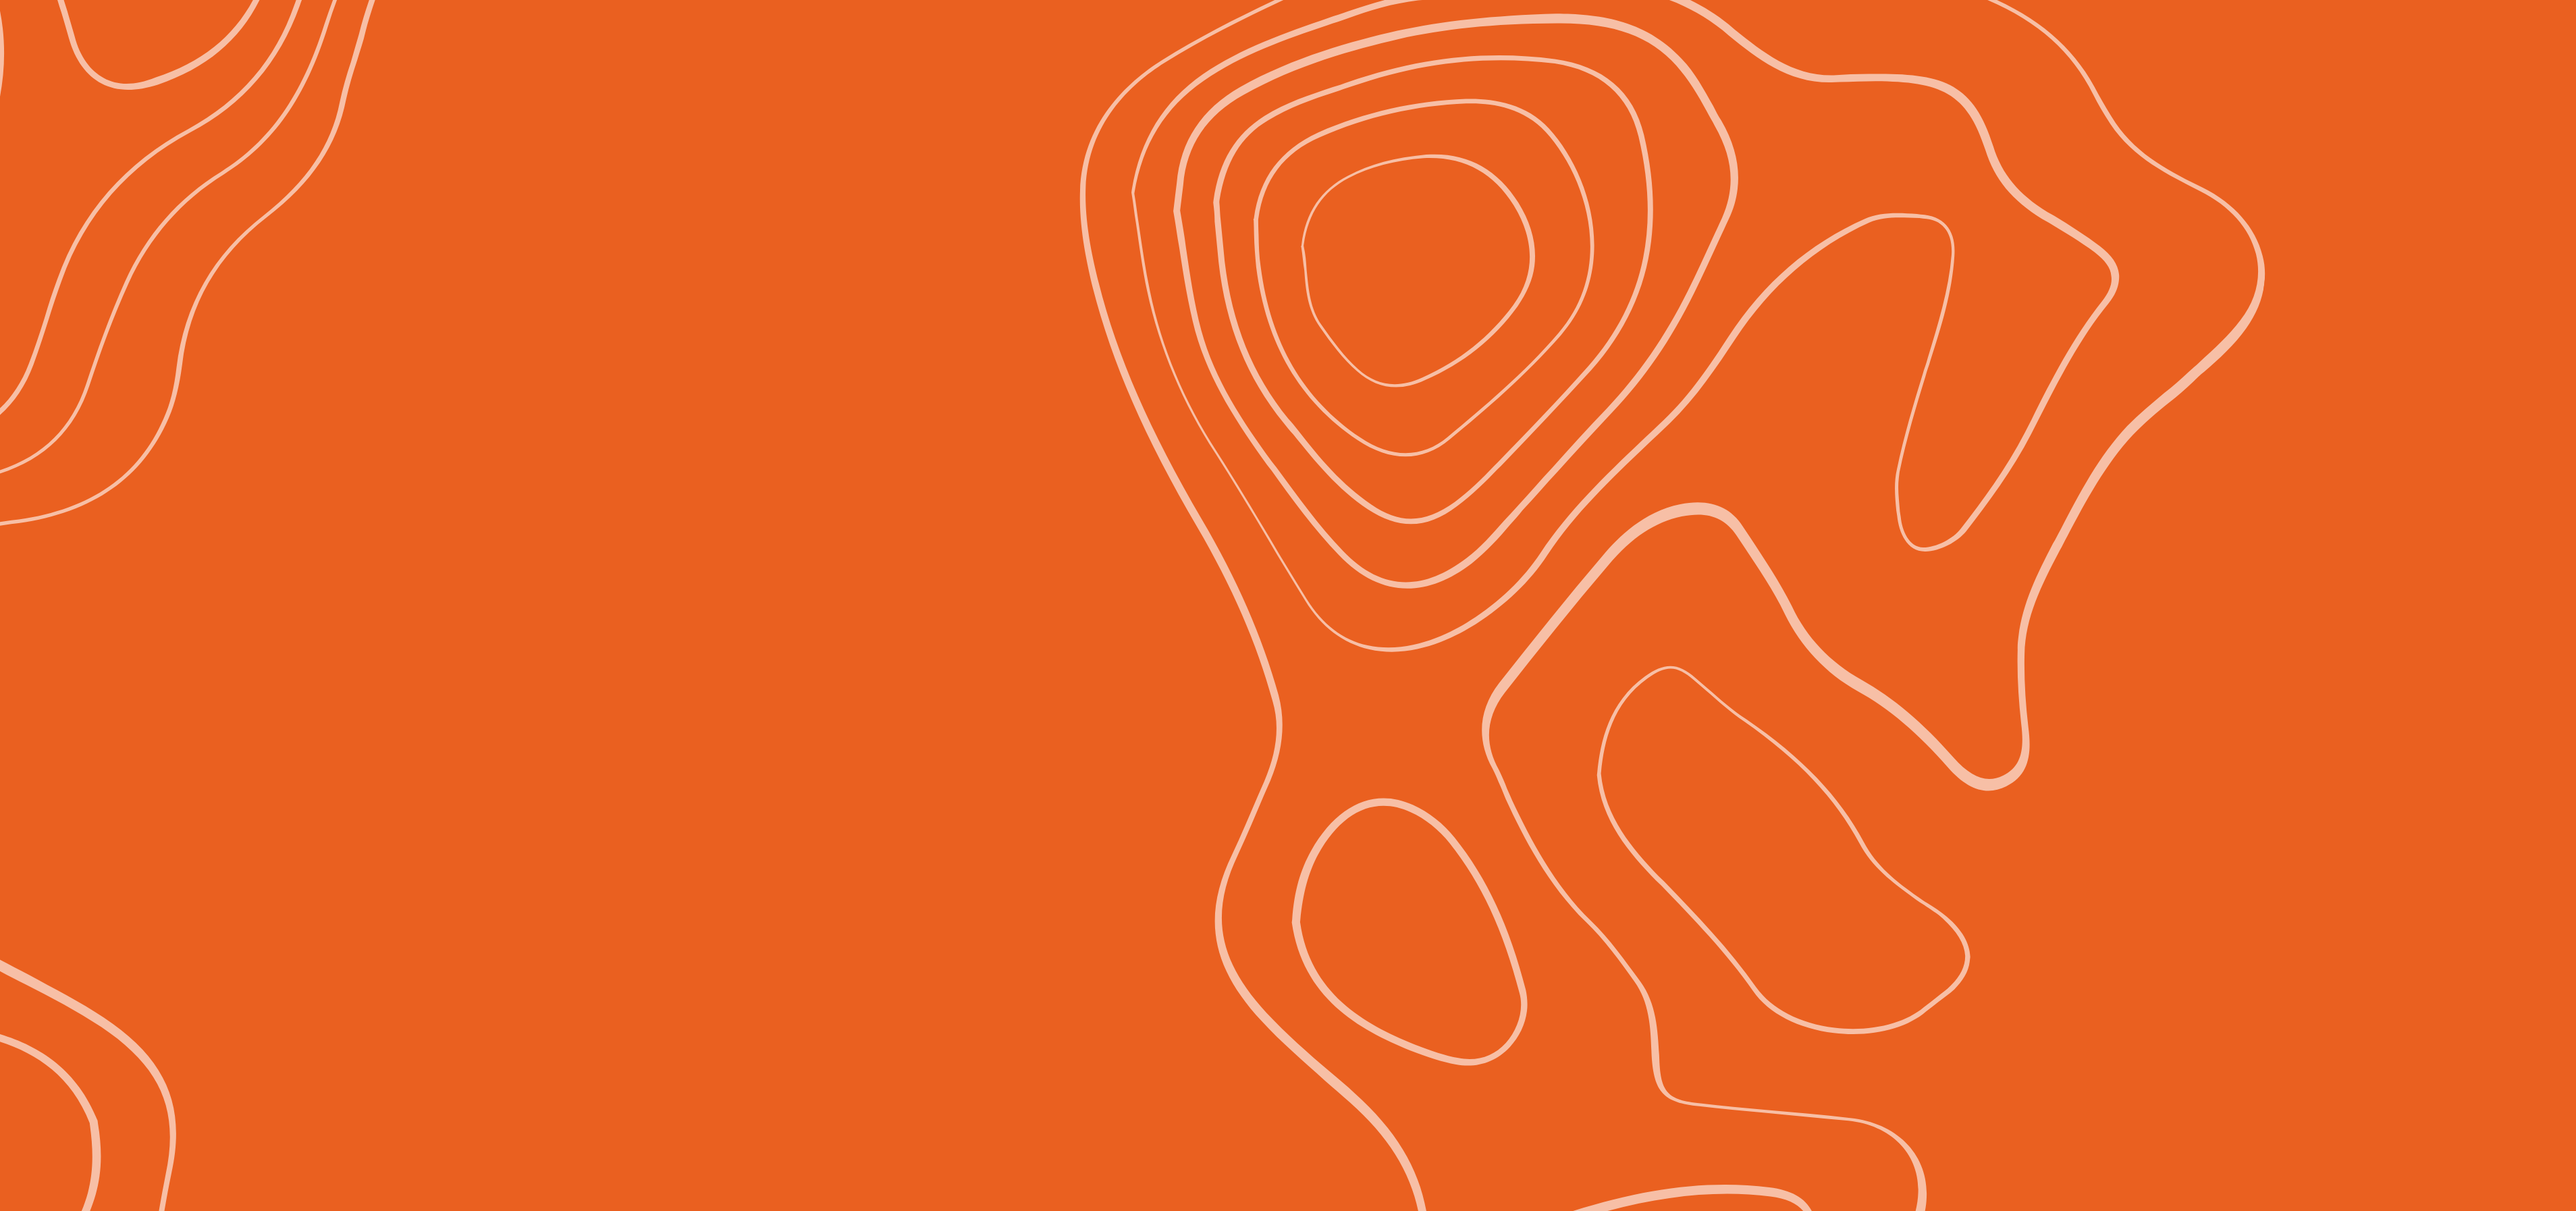
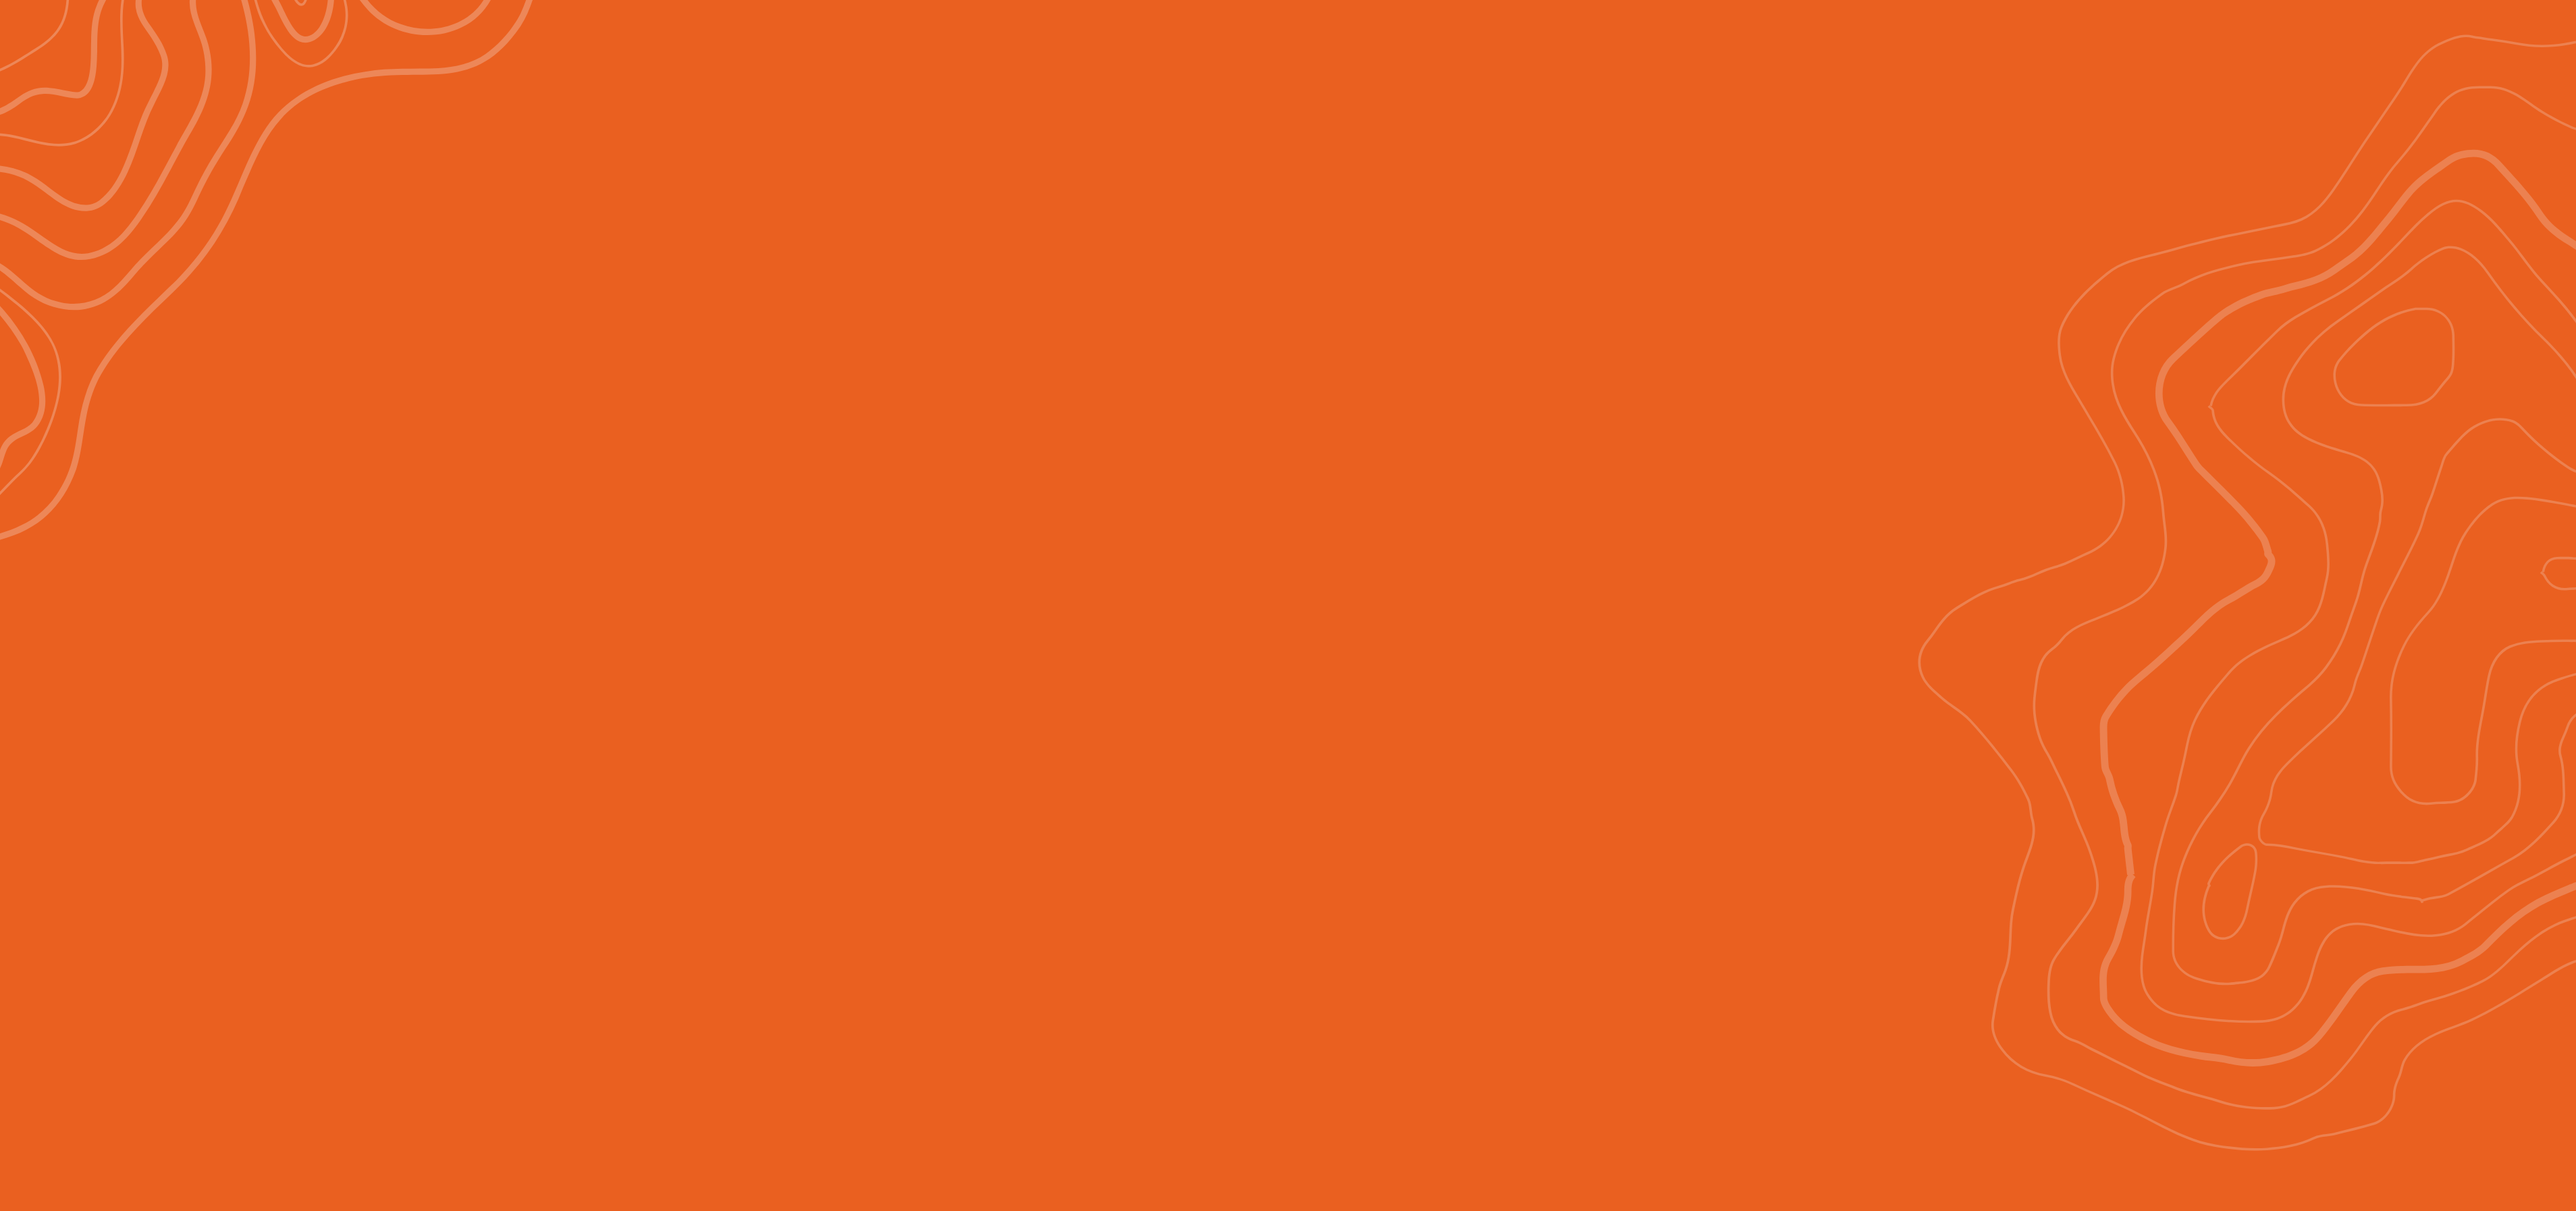
Ajustes de la landing de user

diff --git a/src/pages/landing/UserPage.jsx b/src/pages/landing/UserPage.jsx
@@ -37,46 +37,42 @@ const UserPage = () => {
   ];
 
   return (
-    <div className="padding-container w-full flex flex-col gap-24">
+    <div className="padding-container-2 w-full flex flex-col gap-24">
       {/* Section 1 */}
-      <section className="mt-24 flex-center w-full flex-col">
-        <div className="get-app-landing flex-row px-10 sm:px-28 md:px-12">
-          <div className="z-20 flex w-full flex-1 flex-col items-start justify-center gap-12">
-            <h2 className="text-center md:text-left bold-40 lg:bold-64 xl:max-w-2xl">
+      <section className="mt-10 md:mt-24 flex-center w-full flex-col">
+        <div className="get-app-landing flex-col md:flex-row items-center p-6 sm:px-28 md:px-12">
+          <div className="flex flex-col gap-12">
+            <h2 className="text-center font-bold text-4xl md:text-5xl xl:text-6xl md:text-left xl:max-w-xl text-pretty leading-tight">
               Compare Top Moving Services & Realtors{" "}
               <span className="text-white">All in One Place</span>
             </h2>
-            <div className="flex w-full flex-col gap-3 whitespace-nowrap xl:w-1/4">
-              <Button
-                className="bg-purple-500 text-color-1 h-12 border border-purple-500 rounded-2xl hover:bg-purple-100 hover:text-purple-500"
-                onClick={() => navigate("/")}
-              >
-                See more
-              </Button>
-            </div>
+            <Button
+              className="lg:w-[50%] bg-purple-500 text-color-1 border border-purple-500 rounded-2xl hover:bg-purple-100 hover:text-purple-500"
+              onClick={() => navigate("/")}
+            >
+              See more
+            </Button>
           </div>
-          <div className="hidden md:flex flex-1 items-center h-[400px] lg:h-[500px]">
-            <img
-              src="/assets/img/landing-user-1-1.png"
-              alt="Landing User"
-              className="object-cover size-full"
-            />
-          </div>
+          <img
+            src="/assets/img/landing-user-1-1.png"
+            className="hidden md:block md:w-1/2"
+            alt=""
+          />
         </div>
       </section>
       {/* Section 2 */}
-      <section className="relative max-container  w-full py-20 flex flex-center flex-col gap-10">
+      <section className="relative max-container w-full py-20 flex flex-center flex-col gap-10">
         <img
           src="/assets/img/border.png"
           alt=""
-          className="absolute w-16 md:w-28 left-0 top-0"
+          className="absolute w-16 lg:w-28 left-0 top-0"
         />
         <img
           src="/assets/img/border-2.png"
           alt=""
-          className="absolute w-28 md:w-52 right-0 bottom-0"
+          className="absolute w-28 lg:w-52 right-0 bottom-0"
         />
-        <h2 className="bold-32 lg:bold-52 xl:max-w-6xl text-center">
+        <h2 className="bold-32 md:bold-52 sm:max-w-2xl lg:max-w-3xl xl:max-w-6xl text-center">
           Save time and money by instantly comparing prices, and verified
           ratings.
         </h2>
@@ -85,13 +81,13 @@ const UserPage = () => {
         </p>
         <div className="flex flex-col sm:flex-row flex-center gap-4 sm:gap-10">
           <Button
-            className="bg-purple-500 text-color-1 h-12 border border-purple-500 rounded-2xl hover:bg-purple-100 hover:text-purple-500"
+            className="bg-purple-500 text-color-1 h-12 border border-purple-500 rounded-2xl hover:bg-transparent hover:text-purple-500"
             onClick={() => navigate("/local-moving/compare")}
           >
             Search Moving Companies
           </Button>
           <Button
-            className="bg-purple-500 text-color-1 h-12 border border-purple-500 rounded-2xl hover:bg-purple-100 hover:text-purple-500"
+            className="bg-purple-500 text-color-1 h-12 border border-purple-500 rounded-2xl hover:bg-transparent hover:text-purple-500"
             onClick={() => navigate("/realtors/compare")}
           >
             Search Realtors
@@ -111,12 +107,12 @@ const UserPage = () => {
         <img
           src="/assets/img/border.png"
           alt=""
-          className="absolute w-16 md:w-28 right-0 top-0"
+          className="absolute w-16 lg:w-28 right-0 top-0"
         />
         <img
           src="/assets/img/border-2.png"
           alt=""
-          className="absolute w-28 md:w-52 left-0 bottom-0 rotate-180"
+          className="absolute w-28 lg:w-52 left-0 bottom-0 rotate-180"
         />
         <div className="w-full flex flex-col gap-4">
           <h2 className="bold-32 lg:bold-52">User benefits</h2>
@@ -134,8 +130,8 @@ const UserPage = () => {
       </section>
       {/* Section 5 */}
       <section className="flex-center w-full flex-col pb-[100px]">
-        <div className="get-app-landing items-center md:flex-row px-10 lg:px-32">
-          <div className="z-20 flex w-full flex-1 flex-col items-start justify-center gap-12">
+        <div className="get-app-landing flex-row items-center py-10 sm:px-28 md:px-12">
+          <div className="w-full flex flex-col gap-12">
             <h2 className="bold-32 lg:bold-52 xl:max-w-2xl text-white">
               Frequently Asked Questions
             </h2>
@@ -182,13 +178,11 @@ const UserPage = () => {
               </AccordionItem>
             </Accordion>
           </div>
-          <div className="hidden md:flex flex-1 items-center h-[400px] lg:h-[600px]">
-            <img
-              src="/assets/img/landing-user-3.png"
-              alt="Landing User"
-              className="object-cover size-full"
-            />
-          </div>
+          <img
+            src="/assets/img/landing-user-3.png"
+            className="hidden md:block md:w-2/5"
+            alt=""
+          />
         </div>
       </section>
     </div>

diff --git a/src/index.css b/src/index.css
@@ -98,8 +98,16 @@ layer(base);
   @apply mx-auto max-w-[1440px];
 }
 
+@utility max-container-2 {
+  @apply mx-auto max-w-[1540px];
+}
+
 @utility padding-container {
   @apply px-6 lg:px-20 2xl:px-0;
+}
+
+@utility padding-container-2 {
+  @apply px-6 lg:px-14 2xl:px-0;
 }
 
 @utility flex-center {
@@ -213,12 +221,12 @@ layer(base);
 
 @utility get-app-landing {
   /* Get App */
-  @apply max-container relative flex w-full flex-col justify-between gap-15 overflow-hidden bg-green-90 bg-pattern-4 bg-cover bg-center bg-no-repeat px-6 py-12 text-black lg:flex-row sm:gap-12 sm:py-24 lg:px-20 xl:max-h-[698px] xl:rounded-3xl;
+  @apply max-container relative flex w-full flex-col justify-between gap-15 overflow-hidden bg-green-90 bg-pattern-3 bg-cover bg-center bg-no-repeat px-6 py-12 text-black lg:flex-row sm:gap-12 sm:py-24 lg:px-20 xl:max-h-[698px] rounded-3xl;
 }
 
 @utility get-app-landing-2 {
   /* Get App */
-  @apply max-container relative flex w-full flex-col justify-between gap-15 overflow-hidden bg-green-90 bg-pattern-5 bg-cover bg-center bg-no-repeat px-6 py-12 text-black lg:flex-row sm:gap-12 sm:py-24 lg:px-20 xl:max-h-[698px] xl:rounded-3xl;
+  @apply max-container relative flex w-full flex-col justify-between gap-15 overflow-hidden bg-green-90 bg-pattern-5 bg-cover bg-center bg-no-repeat px-6 py-12 text-black lg:flex-row sm:gap-12 sm:py-24 lg:px-20 xl:max-h-[698px] rounded-3xl;
 }
 
 @utility app-container {

diff --git a/src/pages/landing/CompanyPage.jsx b/src/pages/landing/CompanyPage.jsx
@@ -35,12 +35,12 @@ const CompanyPage = () => {
   ];
 
   return (
-    <div className="padding-container w-full flex flex-col gap-24 my-24">
+    <div className="padding-container-2 w-full flex flex-col gap-24 my-24">
       {/* Section 1 */}
       <section className="flex-center w-full flex-col">
         <div className="get-app-landing flex-col xl:flex-row items-center py-0 px-6 sm:px-10 md:px-12 pt-20 xl:pt-0 gap-10">
-          <div className="flex items-center xl:items-start flex-1 flex-col gap-12">
-            <h2 className="text-center xl:text-left bold-40 lg:bold-52 xl:max-w-[632px]">
+          <div className="flex items-center xl:items-start flex-col gap-12">
+            <h2 className="text-center xl:text-left bold-40 xl:bold-52 lg:max-w-[632px]">
               Get Your Moving Company in Front of More Clients.{" "}
               <span className="text-white">
                 Be the first choice in your area with zero ad spend
@@ -134,7 +134,7 @@ const CompanyPage = () => {
         <img
           src="/assets/img/landing-company-3.png"
           alt=""
-          className="hidden md:block w-full h-[530px]"
+          className="hidden lg:block w-full lg:h-[500px]"
         />
         <div className="get-app-landing items-center lg:items-start py-10 flex flex-col gap-4 lg:h-[510px] mt-auto">
           <h2 className="bold-32 lg:bold-52 text-white">Who Can Join?</h2>

diff --git a/src/components/PageTitle.jsx b/src/components/PageTitle.jsx
@@ -10,7 +10,9 @@ export const PageTitleManager = () => {
       "/": "Home - Moving Essential",
       "/login": "Login - Moving Essential",
       "/register": "Register - Moving Essential",
-      "/join": "Join a Company - Moving Essential",
+      "/join": "Join Us - Moving Essential",
+      "/join/company": "Join a Company - Moving Essential",
+      "/join/realtors": "Join a Realtor - Moving Essential",
       "/authorization": "Unauthorized - Moving Essential",
       "/profile": "Profile - Moving Essential",
       "/user/dashboard": "Dashboard - Moving Essential",

diff --git a/tailwind.config.js b/tailwind.config.js
@@ -135,6 +135,7 @@ export default {
           "conic-gradient(from 225deg, #FFC876, #79FFF7, #9F53FF, #FF98E2, #FFC876)",
         pattern: "url('/src/assets/img/pattern-3.png')",
         "pattern-2": "url('/src/assets/img/pattern-bg.png')",
+        "pattern-3": "url('/src/assets/img/pattern-3.png')",
         "pattern-4": "url('/src/assets/img/pattern-4.png')",
         "pattern-5": "url('/src/assets/img/pattern-5.png')",
         "feature-bg": "url('/src/assets/img/feature-bg.png')",
